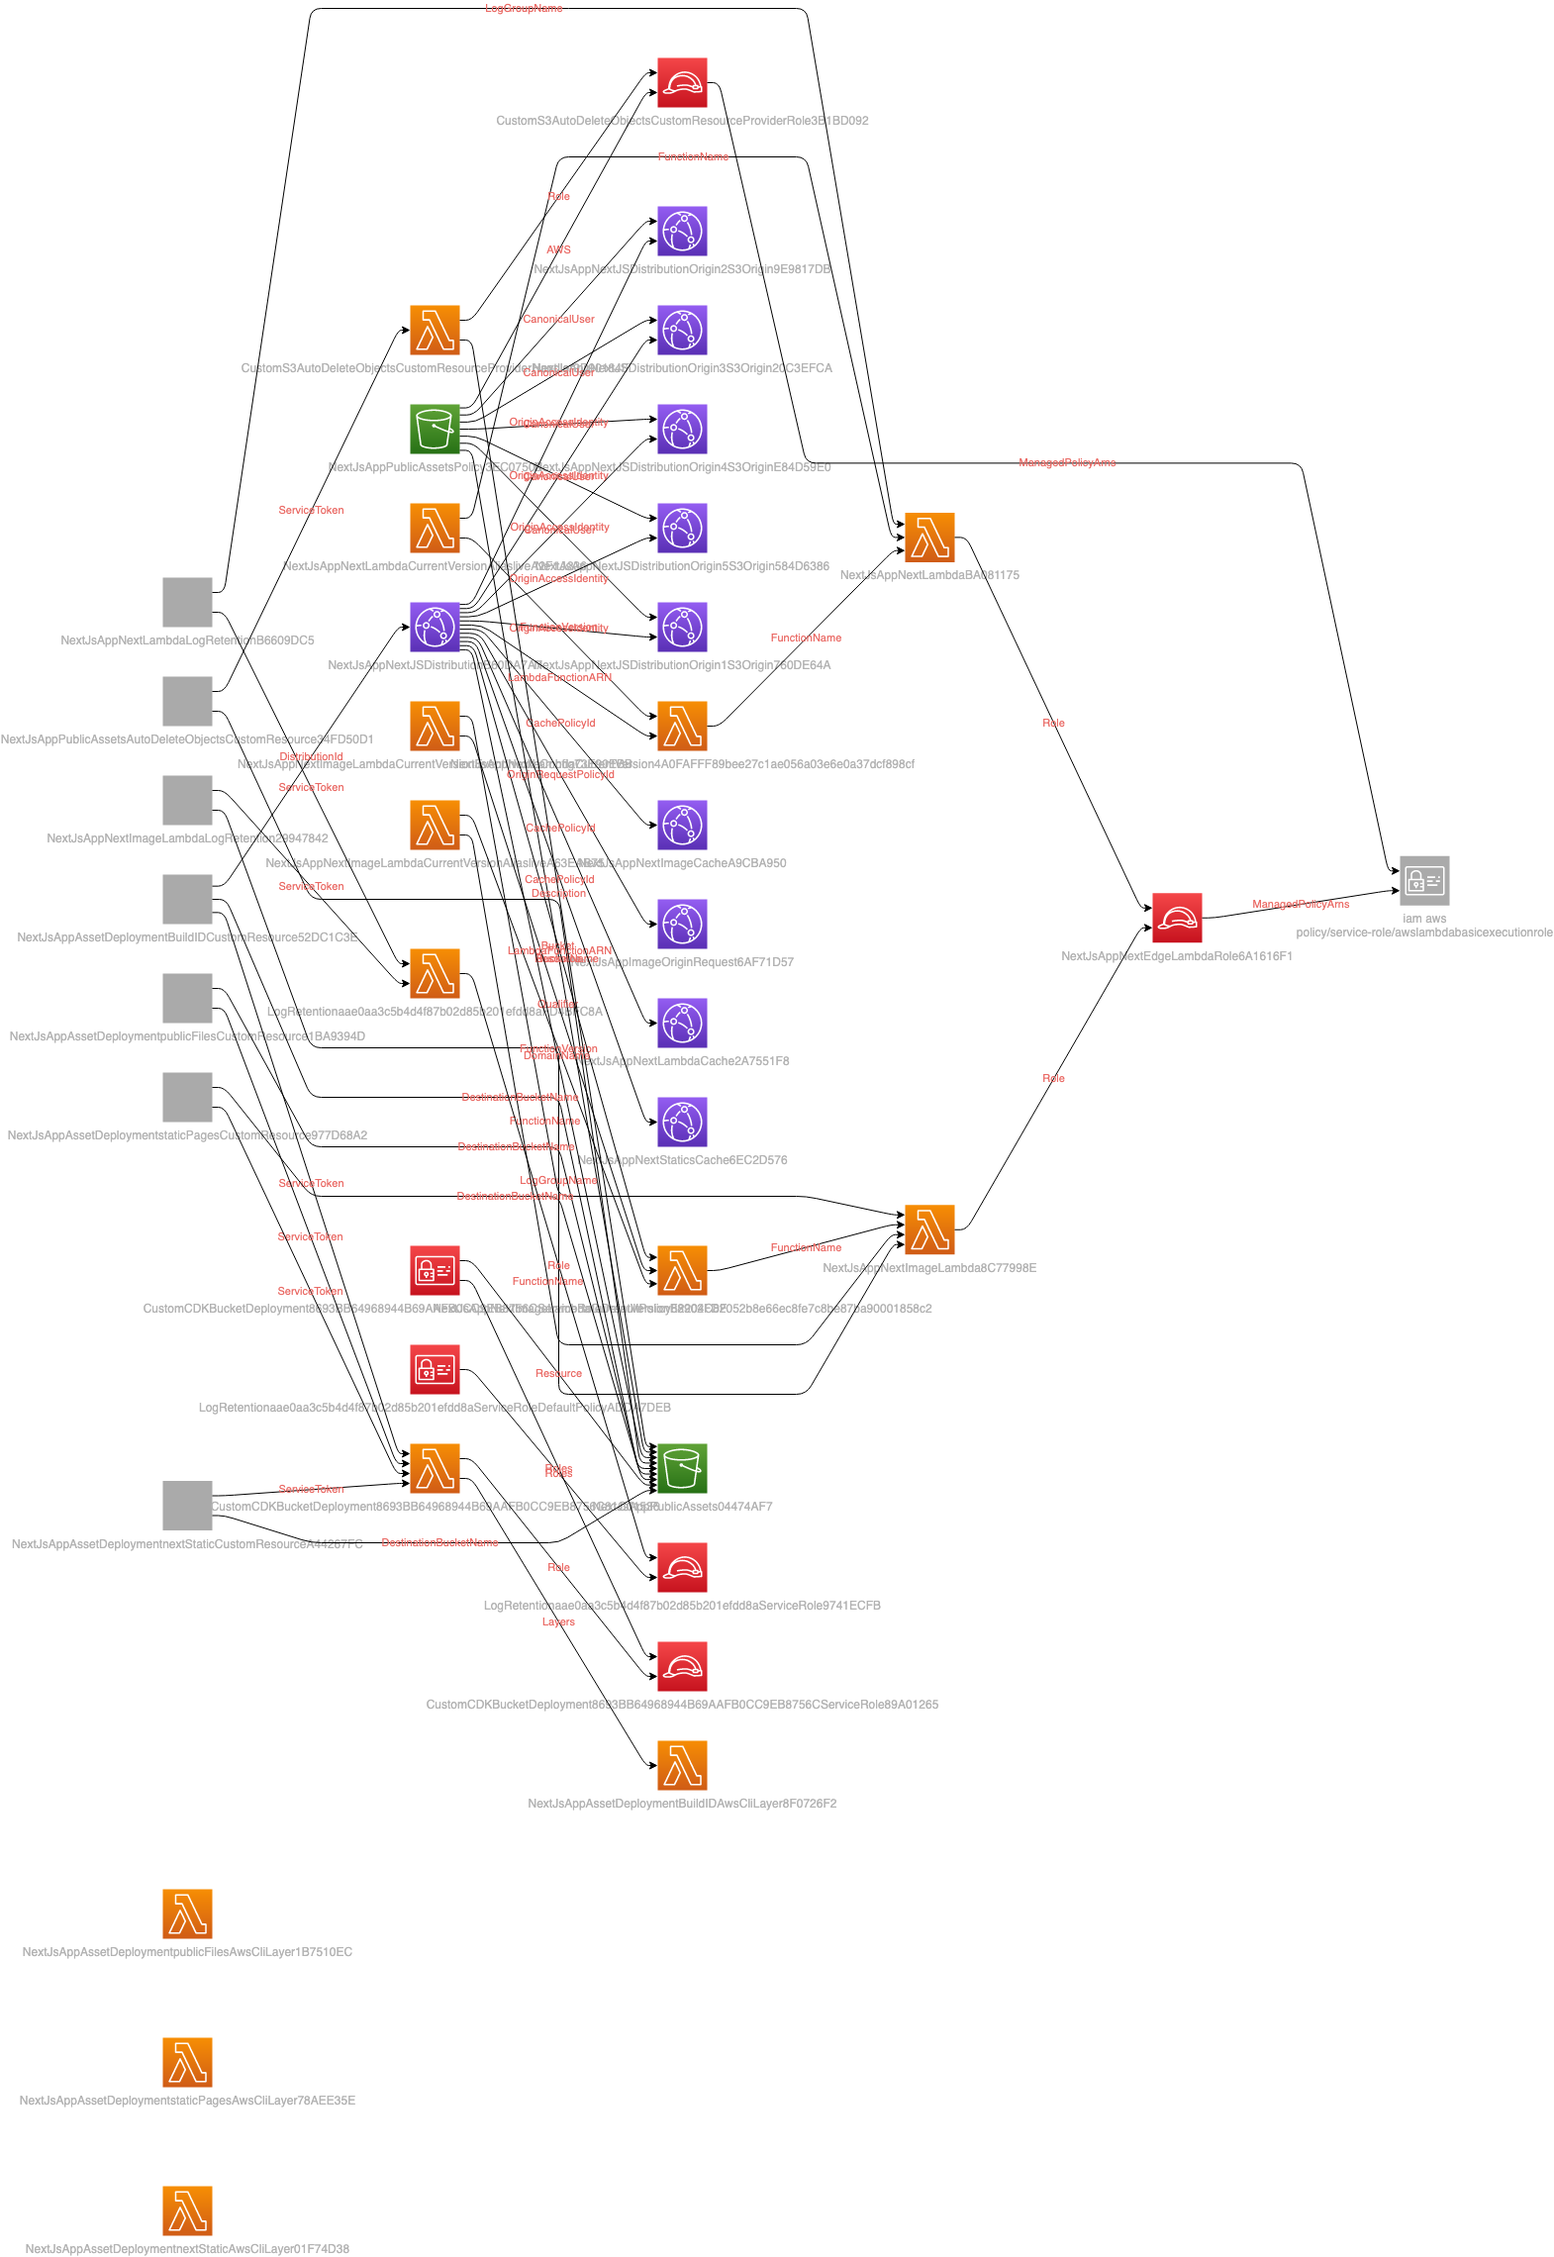
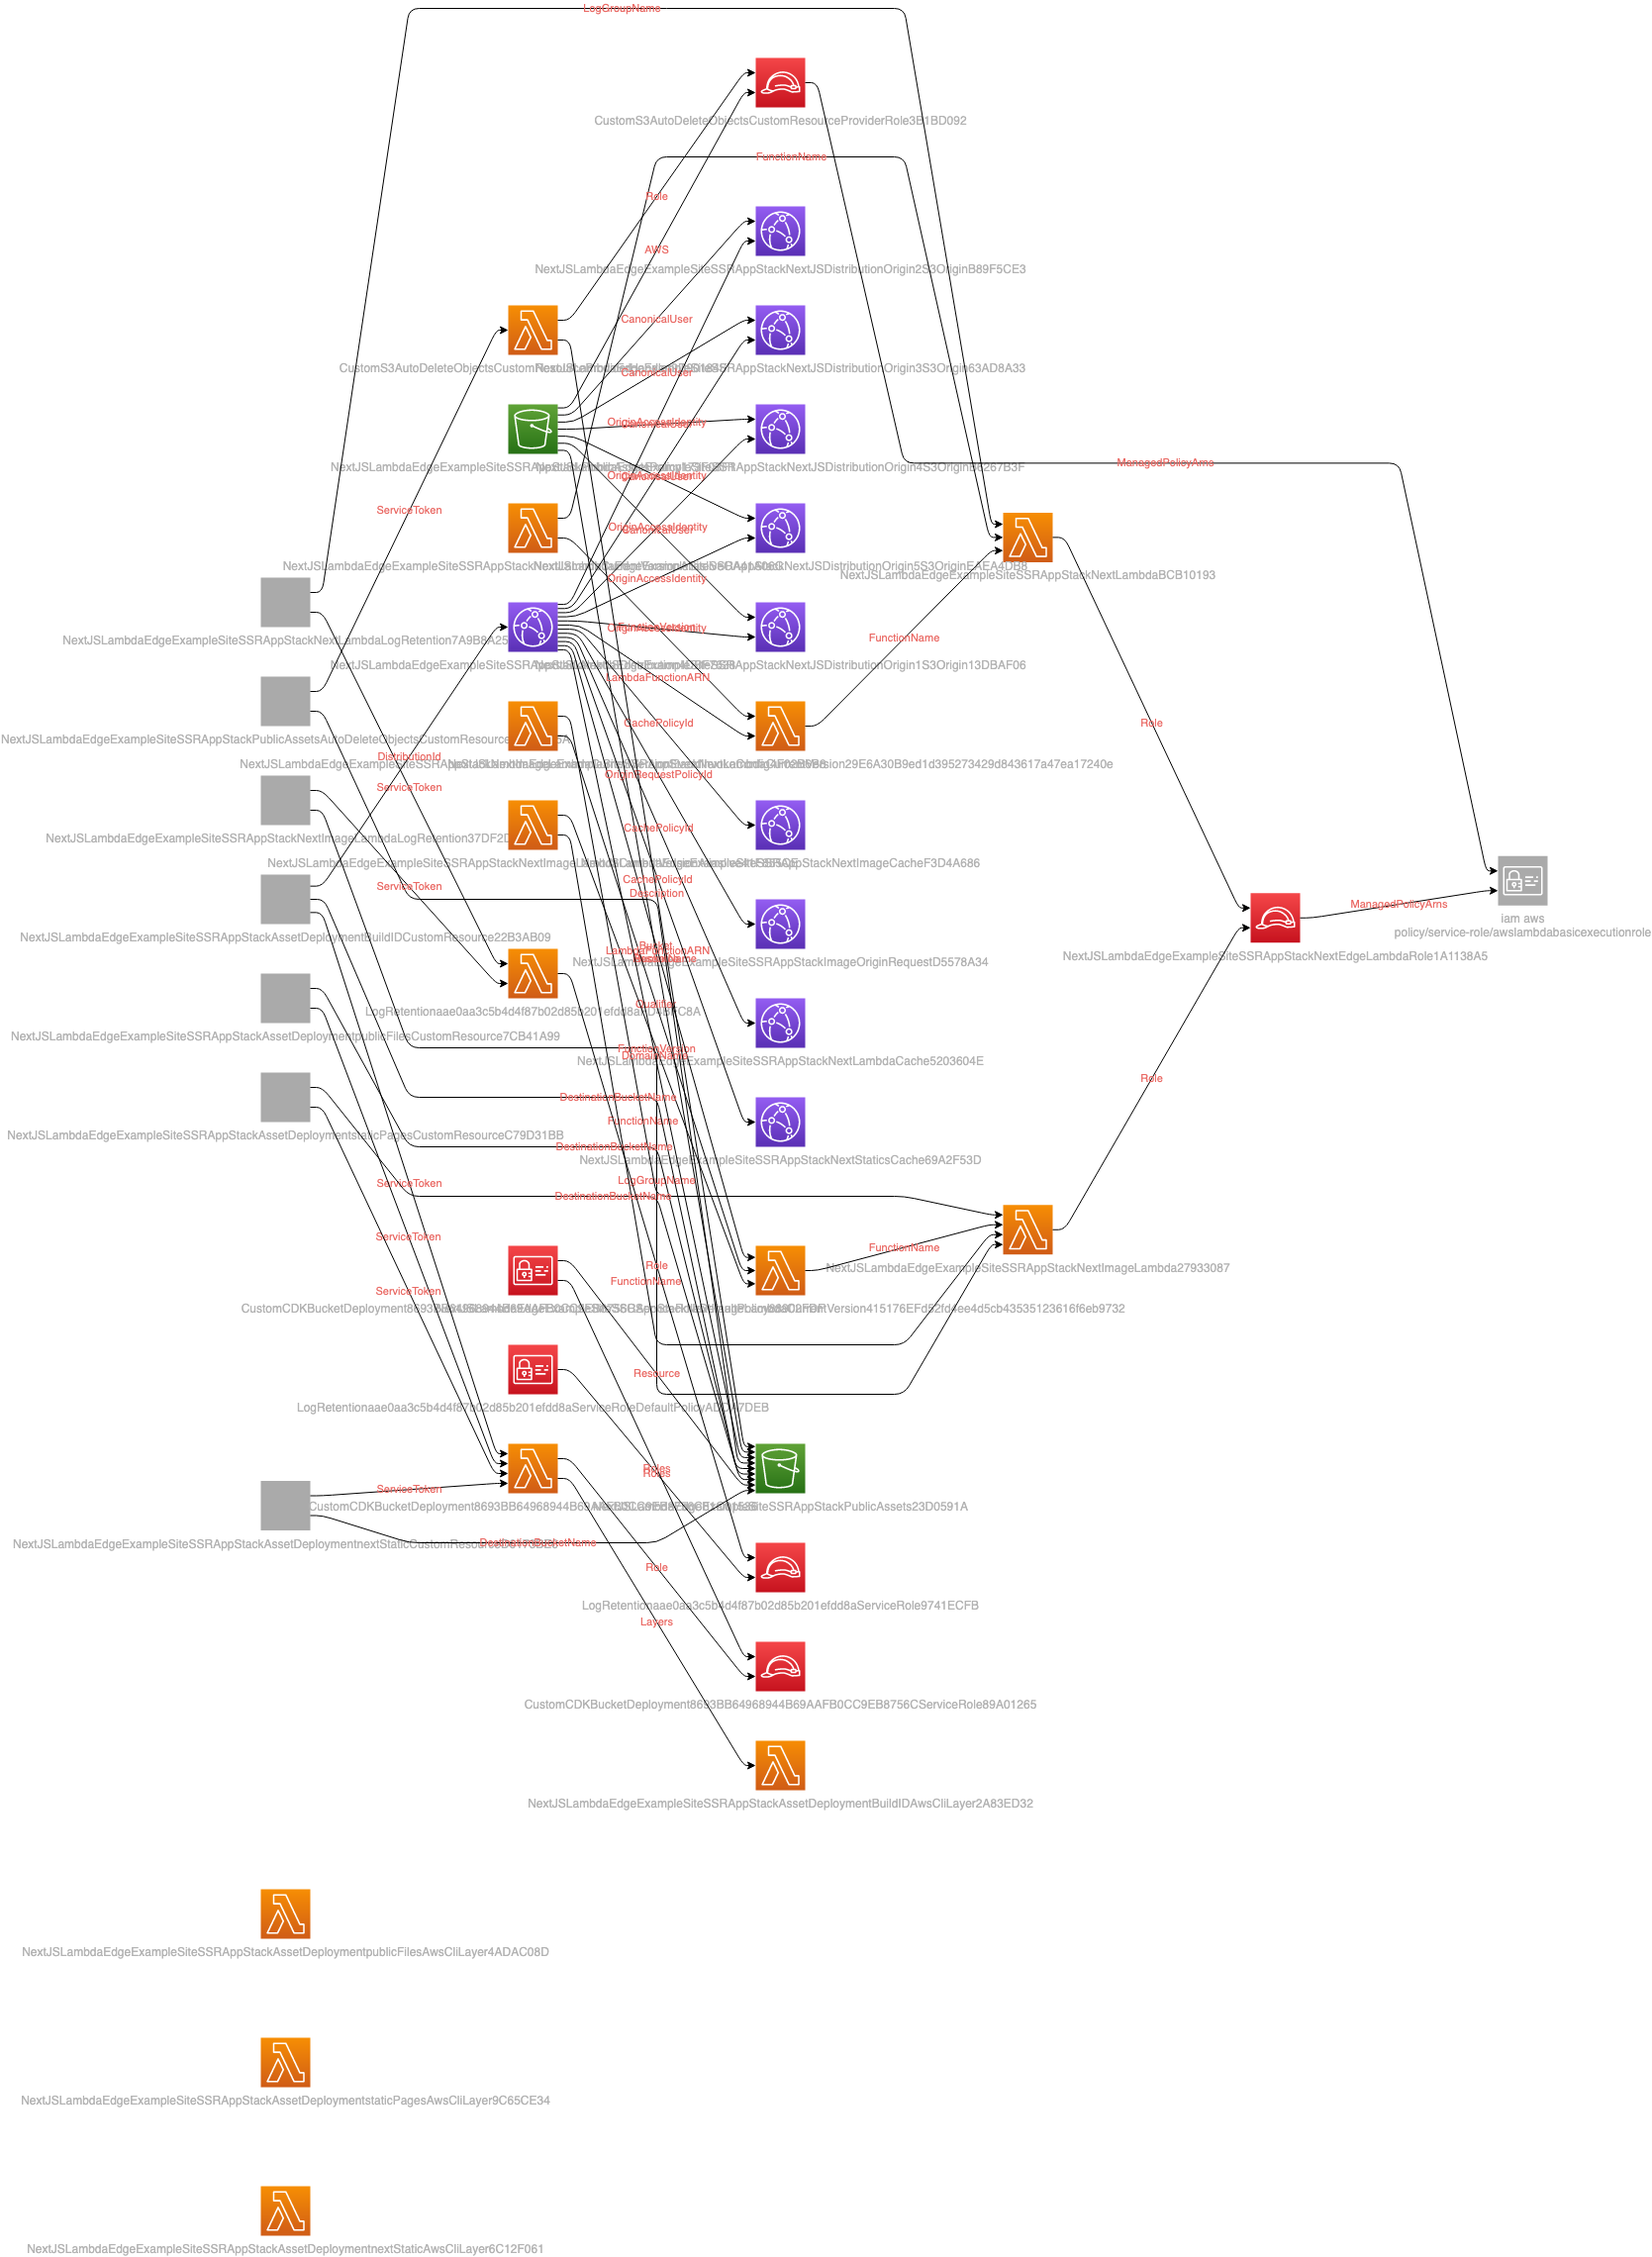
chore: add initial API example

diff --git a/services/api-example/cdk/api-stack.ts b/services/api-example/cdk/api-stack.ts
@@ -1,0 +1,60 @@
+import {
+  LambdaIntegration,
+  MethodLoggingLevel,
+  RestApi,
+} from "@aws-cdk/aws-apigateway";
+import { PolicyStatement } from "@aws-cdk/aws-iam";
+import { Function, Runtime, AssetCode } from "@aws-cdk/aws-lambda";
+import { Construct, Duration, Stack, StackProps } from "@aws-cdk/core";
+import s3 = require("@aws-cdk/aws-s3");
+
+// interface LambdaApiStackProps extends StackProps {
+//   appStackName: string;
+// }
+type LambdaApiStackProps = StackProps;
+
+export class LambdaApiStack extends Stack {
+  private restApi: RestApi;
+  // eslint-disable-next-line @typescript-eslint/ban-types
+  private lambdaFunction: Function;
+  // private bucket: s3.Bucket;
+
+  constructor(scope: Construct, id: string, props: LambdaApiStackProps) {
+    super(scope, id, props);
+
+    // this.bucket = new s3.Bucket(this, "WidgetStore");
+
+    this.restApi = new RestApi(this, this.stackName + "RestApi", {
+      deployOptions: {
+        stageName: "beta",
+        metricsEnabled: true,
+        loggingLevel: MethodLoggingLevel.INFO,
+        dataTraceEnabled: true,
+      },
+    });
+
+    // const lambdaPolicy = new PolicyStatement();
+    // lambdaPolicy.addActions("s3:ListBucket");
+    // lambdaPolicy.addResources(this.bucket.bucketArn);
+
+    const functionName = `HelloWorld-${this.stackName}`;
+
+    this.lambdaFunction = new Function(this, functionName, {
+      functionName,
+      handler: "handler.handler",
+      runtime: Runtime.NODEJS_10_X,
+      code: new AssetCode(`./src`),
+      memorySize: 512,
+      timeout: Duration.seconds(10),
+      environment: {
+        // BUCKET: this.bucket.bucketName,
+      },
+      // initialPolicy: [lambdaPolicy],
+    });
+
+    this.restApi.root.addMethod(
+      "GET",
+      new LambdaIntegration(this.lambdaFunction, {}),
+    );
+  }
+}

diff --git a/services/site-example-ssr/cdk/next-stack.ts b/services/site-example-ssr/cdk/next-stack.ts
@@ -1,13 +1,25 @@
 import { NextJSLambdaEdge } from "@sls-next/cdk-construct";
 import * as cdk from "@aws-cdk/core";
-import { HostedZone } from "@aws-cdk/aws-route53";
-import { Certificate } from "@aws-cdk/aws-certificatemanager";
+// import { HostedZone } from "@aws-cdk/aws-route53";
+// import { Certificate } from "@aws-cdk/aws-certificatemanager";
 
-export class NextStack extends cdk.Stack {
+export class NextJSStack extends cdk.Stack {
   constructor(scope: cdk.Construct, id: string, props: cdk.StackProps) {
     super(scope, id, props);
-    new NextJSLambdaEdge(this, "NextJsApp", {
+    new NextJSLambdaEdge(this, `NextJSLambdaEdge-${this.stackName}`, {
       serverlessBuildOutDir: "./build",
+      // domain: {
+      //   domainName: "cdk-example-ssr.superlegit.business",
+      //   hostedZone: HostedZone.fromHostedZoneAttributes(this, "Zone", {
+      //     hostedZoneId: "XXXXXXXXXX",
+      //     zoneName: "superlegit.business",
+      //   }),
+      //   certificate: Certificate.fromCertificateArn(
+      //     this,
+      //     "Cert",
+      //     "arn:aws:acm:us-east-1:XXXXXXXXXX:certificate/XXXXXXXXXX",
+      //   ),
+      // },
     });
   }
 }

diff --git a/services/api-example/.eslintrc.js b/services/api-example/.eslintrc.js
@@ -1,0 +1,44 @@
+module.exports = {
+  parser: "@typescript-eslint/parser",
+  plugins: ["@typescript-eslint", "react", "import", "prettier", "react-hooks"],
+  parserOptions: {
+    ecmaVersion: 2019,
+    sourceType: "module",
+    ecmaFeatures: {
+      jsx: true,
+    },
+  },
+  env: {
+    node: true,
+    browser: true,
+    jest: true,
+  },
+  extends: [
+    "eslint:recommended",
+    "plugin:@typescript-eslint/recommended",
+    "plugin:react/recommended",
+    "plugin:prettier/recommended",
+    "plugin:import/recommended",
+    "plugin:import/errors",
+    "plugin:import/warnings",
+    "plugin:import/react",
+    "plugin:import/typescript",
+    "plugin:unicorn/recommended",
+    "prettier",
+  ],
+
+  settings: {
+    react: {
+      version: "17.0.1",
+    },
+  },
+
+  rules: {
+    "react/react-in-jsx-scope": "off",
+    "unicorn/prevent-abbreviations": "off",
+    "react/prop-types": "off",
+    "@typescript-eslint/explicit-module-boundary-types": "off",
+    "@typescript-eslint/no-explicit-any": "off",
+    "@typescript-eslint/no-unused-vars": "off",
+  },
+};

diff --git a/services/site-example-ssr/cdk/app.ts b/services/site-example-ssr/cdk/app.ts
@@ -1,6 +1,6 @@
 import * as cdk from "@aws-cdk/core";
 import { Builder } from "@sls-next/lambda-at-edge";
-import { NextStack } from "./next-stack";
+import { NextJSStack } from "./next-stack";
 
 // Run the serverless builder, this could be done elsewhere in your workflow
 const builder = new Builder(".", "./build", { args: ["build"] });
@@ -9,7 +9,7 @@ builder
   .build()
   .then(() => {
     const app = new cdk.App();
-    new NextStack(app, `NextStack`, {});
+    new NextJSStack(app, `ExampleSiteSSRAppStack`, {});
   })
   .catch((error) => {
     console.log(error);

diff --git a/services/api-example/cdk/stack.test.ts b/services/api-example/cdk/stack.test.ts
@@ -1,0 +1,23 @@
+// import {
+//   expect as expectCDK,
+//   matchTemplate,
+//   MatchStyle,
+// } from "@aws-cdk/assert";
+import * as cdk from "@aws-cdk/core";
+import * as moduleUnderTest from "./api-stack";
+
+test("Empty Stack", () => {
+  const app = new cdk.App();
+  // WHEN
+  const stack = new moduleUnderTest.LambdaApiStack(app, "MyTestStack", {});
+  // THEN
+  // expectCDK(stack).to(
+  //   matchTemplate(
+  //     {
+  //       Resources: {},
+  //     },
+  //     MatchStyle.EXACT,
+  //   ),
+  // );
+  expect(true).toBe(true);
+});

diff --git a/services/api-example/cdk/app.ts b/services/api-example/cdk/app.ts
@@ -1,0 +1,9 @@
+import "source-map-support/register";
+import cdk = require("@aws-cdk/core");
+import { LambdaApiStack } from "./api-stack";
+
+export const stackName = "ExampleAPIAppStack";
+
+const app = new cdk.App();
+
+new LambdaApiStack(app, stackName, {});

diff --git a/services/api-example/src/handler.ts b/services/api-example/src/handler.ts
@@ -1,0 +1,13 @@
+const handler = async function (event: any, context: any) {
+  return {
+    statusCode: 400,
+    headers: {},
+    body: JSON.stringify({
+      message: "hello world",
+      event,
+      context,
+    }),
+  };
+};
+
+export { handler };

diff --git a/services/api-example/jest.config.js b/services/api-example/jest.config.js
@@ -4,4 +4,5 @@ module.exports = {
   transform: {
     "^.+\\.tsx?$": "ts-jest",
   },
+  moduleFileExtensions: ["ts", "tsx", "js"],
 };
